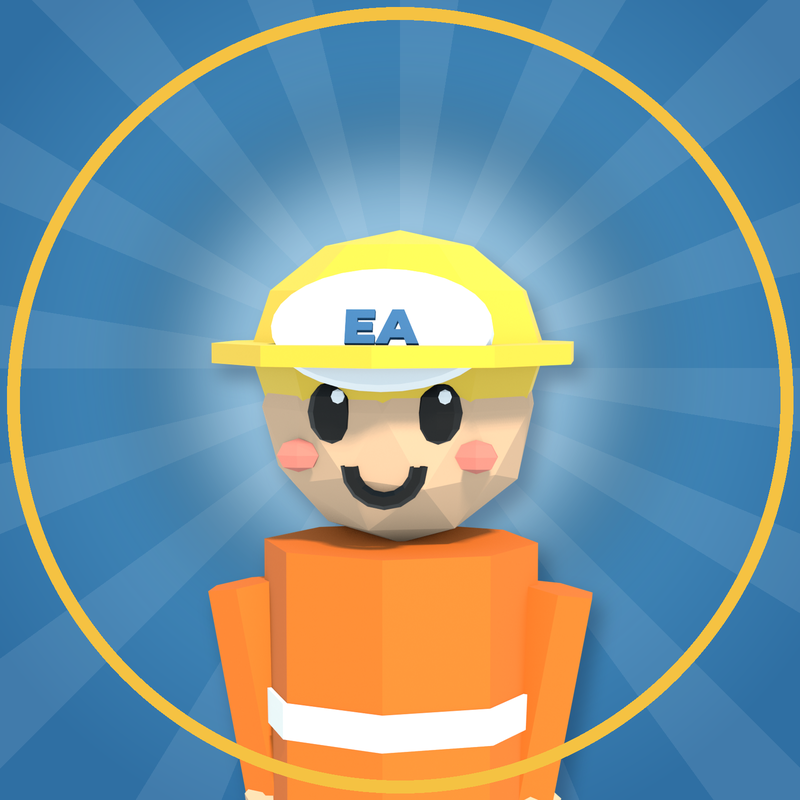
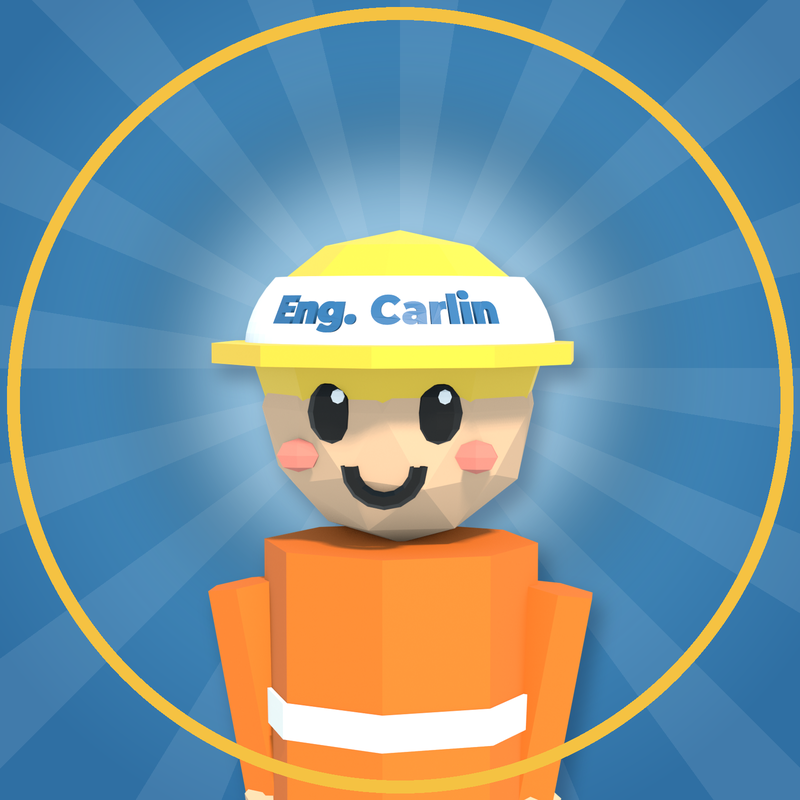
Identidade visual: capacete do mascote com o nome 'Eng. Carlin' em faixa curvada
Claude-Session: https://claude.ai/code/session_016vtzhyhdkM7m6fLda6PiiV

Changed region(s): [[0.2812, 0.3125, 0.7188, 0.5]]

diff --git a/identidade-visual/scripts/cena_identidade.py b/identidade-visual/scripts/cena_identidade.py
@@ -1,6 +1,6 @@
 """Identidade visual do canal Engenharia Animada — cenas 3D low-poly (mesma paleta do EP01).
 Uso:  blender -b --factory-startup -P cena_identidade.py -- <perfil|banner> <saida.png> [escala_res]
-- perfil: mascote em close com o selo "EA" no capacete, fundo transparente (o fundo é feito no Pillow)
+- perfil: mascote em close com o nome "Eng. Carlin" na faixa do capacete, fundo transparente (o fundo é feito no Pillow)
 - banner: diorama da obra (caldeira, guindaste, viga caixão, mascote) 2560x1440"""
 import bpy, sys, os, math, random
 HERE = os.path.dirname(os.path.abspath(__file__))
@@ -75,16 +75,54 @@ def text3d(name, txt, loc, size, material, parent=None, rot=(math.pi / 2, 0, 0),
     return ob
 
 
-def helmet_badge(m):
-    """Selo azul com 'EA' na frente do capacete do mascote."""
+HELMET_NAME = 'Eng. Carlin'  # nome do mascote, escrito na faixa do capacete
+
+
+def helmet_band(m, txt=HELMET_NAME, size=0.16):
+    """Faixa branca em volta da cúpula do capacete com o nome do mascote curvado acompanhando a cúpula.
+    O texto é convertido em malha e cada vértice é enrolado na superfície (sem cortar letras)."""
+    import bmesh
     H = m.headpivot
-    piv = empty('SeloPiv', (0, -0.355, 0.53), H)  # frente da cúpula, logo acima da aba
-    piv.rotation_euler.x = math.radians(-22)  # inclina acompanhando a cúpula
-    d = prim('cyl', 'Selo', (0, 0, 0), P['badge'], piv, rot=(math.pi / 2, 0, 0), vertices=32, radius=0.19, depth=0.05)
-    d.scale = (1.4, 0.78, 1)
-    t = text3d('SeloTxt', 'EA', (0, -0.03, -0.005), 0.2, P['badge_txt'], piv, extrude=0.012)
+    piv = empty('FaixaPiv', (0, 0, 0.47), H)  # centro da cúpula (raio 0.39, achatada 0.8 em Z)
+    RX, RZ = 0.39, 0.39 * 0.8
+    H0, H1 = 0.02, 0.19  # altura da faixa acima da aba
+    rdome = lambda h: RX * math.sqrt(max(0.0, 1 - (h / RZ) ** 2)) + 0.012
+    # faixa: anel com o perfil da cúpula
+    me = bpy.data.meshes.new('Faixa'); bm = bmesh.new()
+    N, ROWS = 72, 6
+    rings = []
+    for r in range(ROWS + 1):
+        h = H0 + (H1 - H0) * r / ROWS
+        rings.append([bm.verts.new((rdome(h) * math.sin(2 * math.pi * i / N), -rdome(h) * math.cos(2 * math.pi * i / N), h)) for i in range(N)])
+    for r in range(ROWS):
+        for i in range(N):
+            j = (i + 1) % N
+            bm.faces.new((rings[r][i], rings[r][j], rings[r + 1][j], rings[r + 1][i]))
+    bm.to_mesh(me); bm.free()
+    band = link(bpy.data.objects.new('Faixa', me)); band.parent = piv; me.materials.append(P['badge'])
+    sol = band.modifiers.new('Esp', 'SOLIDIFY'); sol.thickness = 0.012; sol.offset = -1
+    # texto -> malha -> enrolado na faixa
+    cu = bpy.data.curves.new('NomeTxt', 'FONT'); cu.body = txt; cu.size = size; cu.extrude = 0.006
+    cu.align_x = 'CENTER'; cu.align_y = 'CENTER'; cu.font = bpy.data.fonts.load(FONT)
+    t = link(bpy.data.objects.new('NomeTxt', cu))
+    bpy.context.view_layer.objects.active = t; t.select_set(True)
+    bpy.ops.object.convert(target='MESH')
+    t = bpy.context.object
+    xs = [v.co.x for v in t.data.vertices]; ys = [v.co.y for v in t.data.vertices]
+    xc, yc = (min(xs) + max(xs)) / 2, (min(ys) + max(ys)) / 2
+    hc = (H0 + H1) / 2
+    R0 = rdome(hc)
+    for v in t.data.vertices:
+        x, y, z = v.co.x - xc, v.co.y - yc, v.co.z
+        h = hc + y
+        R = rdome(h) + 0.004 + (z + 0.006)
+        th = x / R0
+        v.co = (R * math.sin(th), -R * math.cos(th), h)
+    t.parent = piv; t.data.materials.clear(); t.data.materials.append(P['badge_txt'])
+    half_arc = math.degrees((max(xs) - min(xs)) / 2 / R0)
+    print('FAIXA texto', txt, 'largura', round(max(xs) - min(xs), 3), 'arco ±%.0f°' % half_arc)
     bpy.data.objects[m.headpivot.name.replace('_headpivot', '_hatridge')].hide_render = True
-    return d, t
+    return band, t
 
 
 def smile(m):
@@ -175,8 +213,8 @@ if MODE == 'perfil':
     sc.render.resolution_x = sc.render.resolution_y = int(800 * RES)
     sc.render.film_transparent = True
     m = Mascot('Mascote', (0, 0, 0), rotz=0.0)
-    helmet_badge(m)
-    m.headpivot.rotation_euler = (math.radians(4), 0, math.radians(-8))
+    helmet_band(m)
+    m.headpivot.rotation_euler = (math.radians(4), 0, math.radians(-2))
     # joinha: braço direito (lado +X) levantado
     m.arms[0].rotation_euler = (0, math.radians(-25), 0)
     m.arms[1].rotation_euler = (math.radians(-20), math.radians(150), math.radians(10))

diff --git a/identidade-visual/README.md b/identidade-visual/README.md
@@ -4,7 +4,7 @@ Mesmo estilo e paleta do piloto EP01: low-poly, cores chapadas, sombra suave e f
 
 | Arquivo | Uso |
 |---|---|
-| `perfil_800x800.png` | Foto de perfil. É o mascote com o selo **EA** no capacete, sobre fundo azul com raios e anel amarelo. Funciona recortada em círculo pequeno. |
+| `perfil_800x800.png` | Foto de perfil. É o mascote **Eng. Carlin** com o nome escrito numa faixa branca em volta do capacete, curvada acompanhando a cúpula, sobre fundo azul com raios e anel amarelo. O nome a usar fica em `HELMET_NAME`, no `cena_identidade.py`. |
 | `banner_2560x1440.png` | Capa do canal. Título, faixa de slogan, mascote e caldeira ficam dentro da área segura central (1546x423). Guindaste, viga caixão e contêineres ficam de fora e só aparecem no desktop ou na TV. |
 | `previas/perfil_em_circulo.jpg` | O perfil recortado em círculo, em 800, 176, 88 e 48 px. |
 | `previas/banner_guia_area_segura.jpg` | Banner com as marcações da área segura e da faixa do desktop. |
